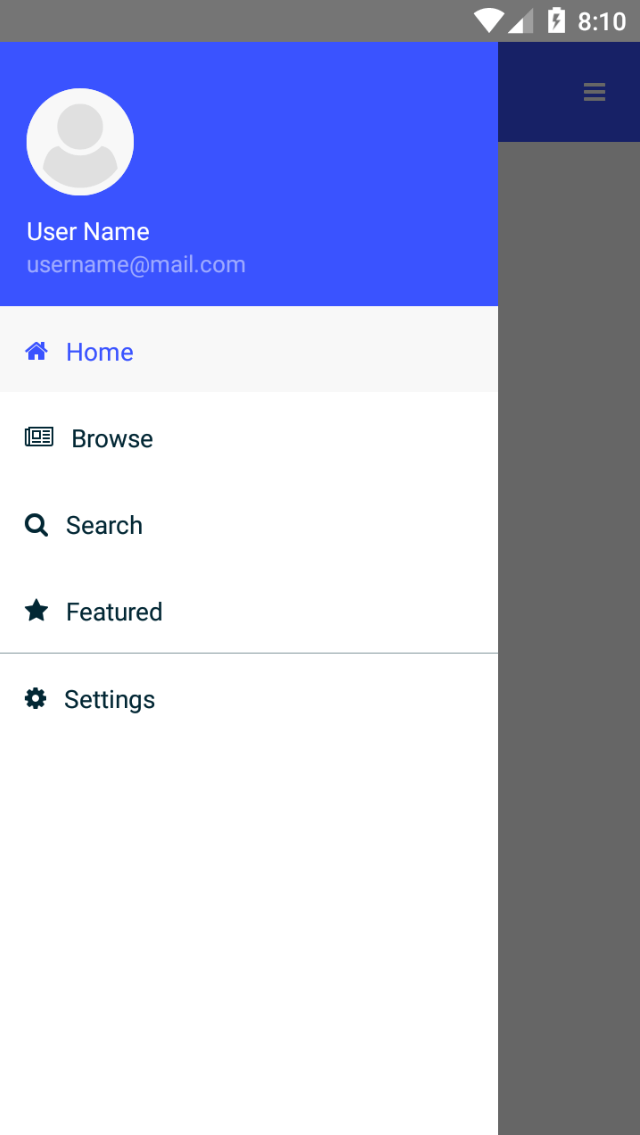
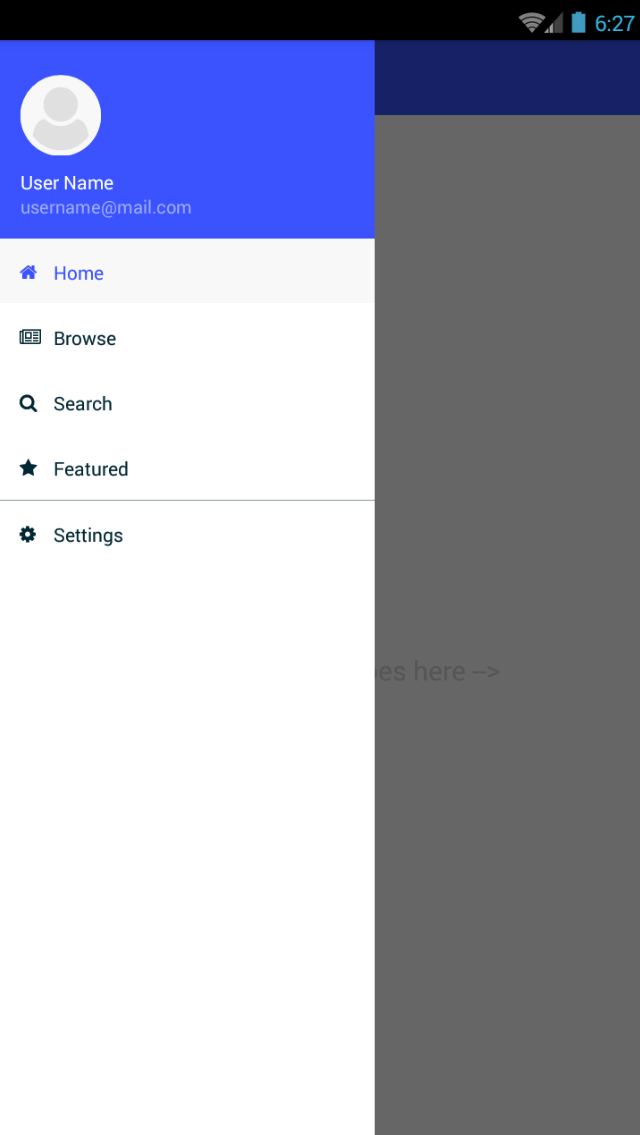
Assets images (#29)
* Update phone screens images

* Add readme images

* Convert to 8bit png

diff --git a/README.md b/README.md
@@ -3,7 +3,7 @@ App templates help you jump start your native cross-platform apps with built-in 
 
 App template featuring a Side Drawer component for navigation.
 
-<img src="/tools/assets/drawer-ios.png" height="400" /> <img src="/tools/assets/drawer-android.png" height="400" />
+<img src="/tools/assets/phone-drawer-ios.png" height="400" /> <img src="/tools/assets/phone-drawer-android.png" height="400" />
 
 ## Key Features
 - Side drawer navigation
